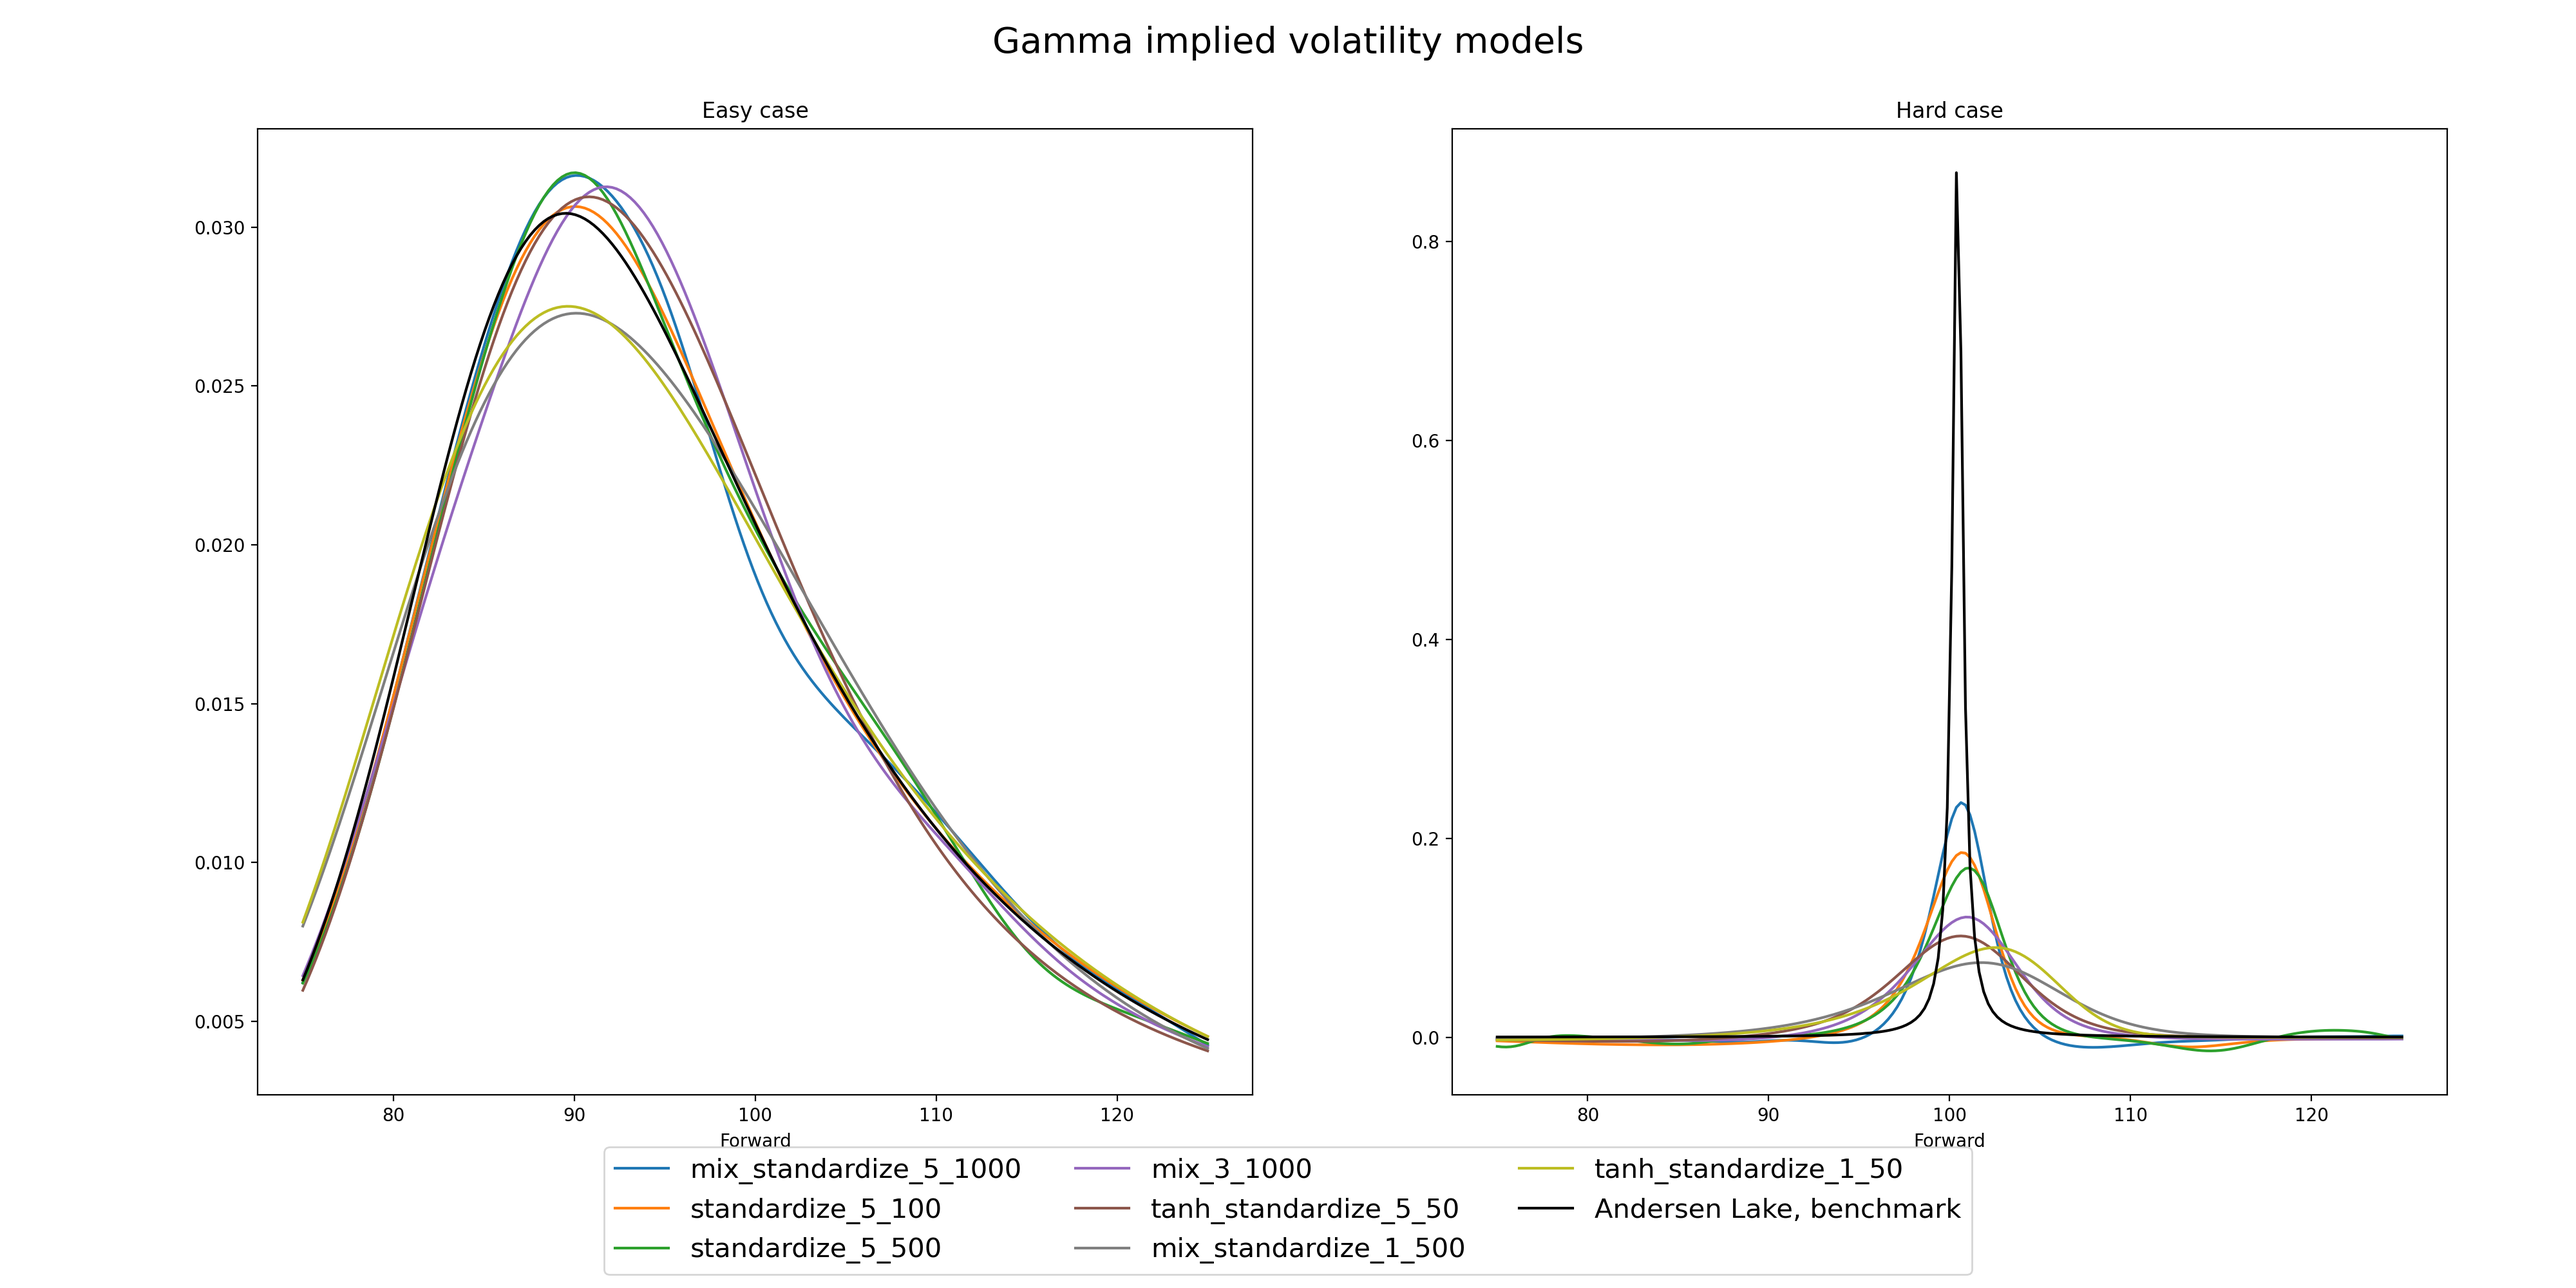
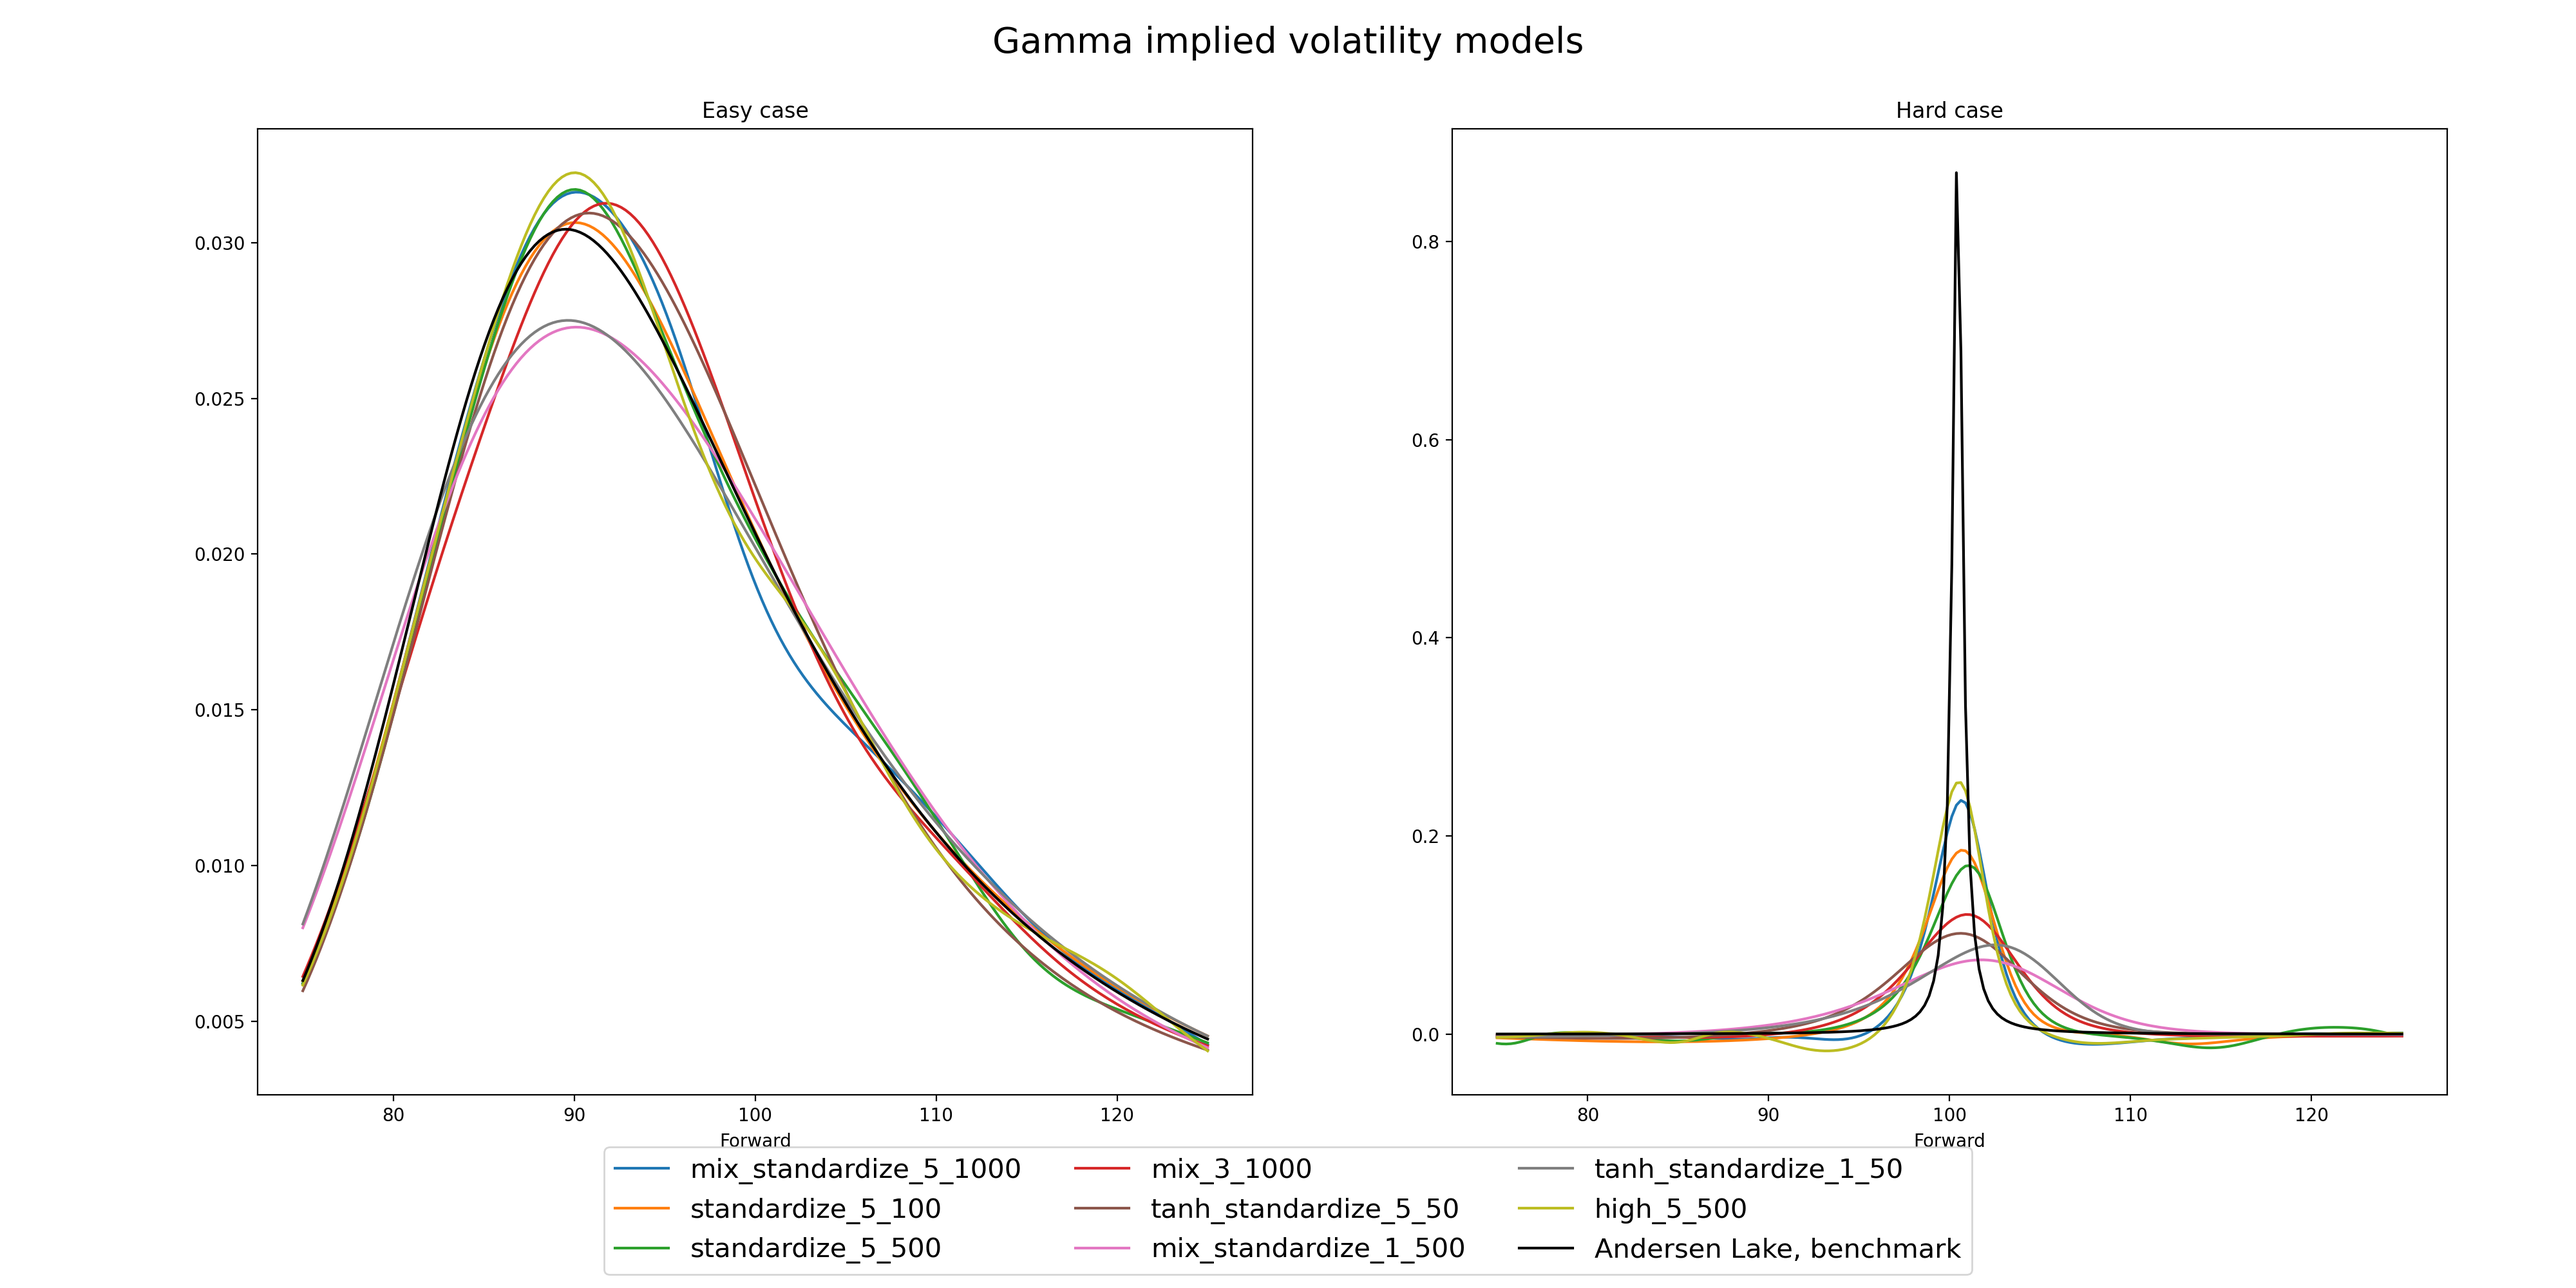
random

diff --git a/Thesis/Heston/LossHistory.py b/Thesis/Heston/LossHistory.py
@@ -26,7 +26,7 @@ if __name__ == "__main__":
 
     train_index_1, test_index_1 = ModelGenerator.load_index(100000)
     model_input_1 = np.loadtxt("Data/100000_input.csv", delimiter = ",")
-    imp_vol_1 = np.loadtxt("Data/100000_imp.csv", delimiter=",")
+    imp_vol_1 = np.loadtxt("Data/sobol_final100000.csv", delimiter=",")
     X_train_1 = model_input_1[train_index_1, :]
     X_test_1 = model_input_1[test_index_1, :]
     Y_train_1 = imp_vol_1[train_index_1, :]
@@ -36,7 +36,7 @@ if __name__ == "__main__":
 
     train_index_3, test_index_3 = ModelGenerator.load_index(300000)
     model_input_3 = np.loadtxt("Data/300000_input.csv", delimiter = ",")
-    imp_vol_3 = np.loadtxt("Data/300000_imp.csv", delimiter=",")
+    imp_vol_3 = np.loadtxt("Data/sobol_final300000.csv", delimiter=",")
     X_train_3 = model_input_3[train_index_3, :]
     X_test_3 = model_input_3[test_index_3, :]
     Y_train_3 = imp_vol_3[train_index_3, :]
@@ -63,7 +63,7 @@ if __name__ == "__main__":
         model_input_3[train_200k2, :], model_input_3[test_200k2, :],
         imp_vol_3[train_200k2, :], imp_vol_3[test_200k2, :]
     ]
-
+    """
     benchmark_loss, benchmark_score = mg.NN_mc_model_1(data_set_1, "loss_history", "benchmark", 5, 500, \
         "normal", "False", "standardize", False, None, True)
 
@@ -78,6 +78,28 @@ if __name__ == "__main__":
 
     benchmark2_loss, benchmark2_score = mg.NN_mc_model_1(data_set_300_200, "loss_history", "benchmark2", 5, 500, \
         "normal", "False", "standardize", False, None, True)
+    """
+
+    model_list = [
+        [data_set_1, "loss_history", "benchmark", 5, 500, "normal", "False", "standardize", False, None, True],
+        [data_set_100000, "loss_history", "low", 5, 500, "normal", "False", "standardize", False, None, True],
+        [data_set_300_100, "loss_history", "low2", 5, 500, "normal", "False", "standardize", False, None, True],
+        [data_set_300000, "loss_history", "high", 5, 500, "normal", "False", "standardize", False, None, True],
+        [data_set_300_200, "loss_history", "benchmark2", 5, 500, "normal", "False", "standardize", False, None, True]
+    ]
+
+    if cpu_count() == 4:
+        cpu_cores = 4
+    else:
+        cpu_cores = int(min(cpu_count()/4, 16))
+
+    pool = Pool(cpu_cores)
+    res = pool.starmap(mg.NN_mc_model_1, model_list, chunksize=1)
+    pool.close()
+
+    res = np.concatenate(res, axis = 1)
+    price_output = res[0]
+    imp_vol_output = res[1]
 
     val_loss = np.array((low2_loss.history["val_loss"][-1], benchmark2_loss.history["val_loss"][-1], high_loss.history["val_loss"][-1]))
     loss = np.array((low2_loss.history["loss"][-1], benchmark2_loss.history["loss"][-1], high_loss.history["loss"][-1]))
@@ -121,6 +143,14 @@ if __name__ == "__main__":
     plt.savefig("val_training_loss_numbers.png")
     plt.close()
 
+    ### Random
+    random_input = np.loadtxt("Data/random_input.csv", delimiter = ",")
+    #imp_vol = np.loadtxt("Data/benchmark_imp.csv", delimiter=",")
+    random_imp_vol = np.loadtxt("Data/random_imp.csv", delimiter=",")
+
+    X_test_random = random_input[test_index, :]
+    Y_test_random = random_imp_vol[test_index, :]
+
     ### Cross checking models
     model_list = [
         "Models5/loss_history/benchmark_5_500.h5",
@@ -135,3 +165,5 @@ if __name__ == "__main__":
     model_list2_mse = mt.model_test_set(model_list, X_test, Y_test)
 
     model_list3_mse = mt.model_test_set(model_list, X_test_1, Y_test_1)
+
+    random_mse = mt.model_test_set(model_list, X_test_random, Y_test_random)

diff --git a/Thesis/Heston/ModelGenerator.py b/Thesis/Heston/ModelGenerator.py
@@ -54,8 +54,7 @@ if __name__ == '__main__':
     train_index, test_index = load_index(200000)
     
     model_input = np.loadtxt("Data/benchmark_input.csv", delimiter = ",")
-    #imp_vol = np.loadtxt("Data/benchmark_imp.csv", delimiter=",")
-    imp_vol = np.loadtxt("Data/sobol_final200000.csv", delimiter=",")
+    imp_vol = np.loadtxt("Data/benchmark_imp.csv", delimiter=",")
     price = np.loadtxt("Data/benchmark_price.csv", delimiter=",")
 
     X_train = model_input[train_index, :]
@@ -79,10 +78,10 @@ if __name__ == '__main__':
     #imp_vol = np.loadtxt("Data/benchmark_imp.csv", delimiter=",")
     random_imp_vol = np.loadtxt("Data/random_imp.csv", delimiter=",")
 
-    X_train_random = model_input[train_index, :]
-    X_test_random = model_input[test_index, :]
-    Y_train_random = imp_vol[train_index, :]
-    Y_test_random = imp_vol[test_index, :]
+    X_train_random = random_input[train_index, :]
+    X_test_random = random_input[test_index, :]
+    Y_train_random = random_imp_vol[train_index, :]
+    Y_test_random = random_imp_vol[test_index, :]
 
     data_set_random = [X_train_random, X_test_random, Y_train_random, Y_test_random]
 
@@ -144,8 +143,8 @@ if __name__ == '__main__':
         itertools.repeat("high_data"), layer_neuron_combs[:, 0], layer_neuron_combs[:, 1], \
         itertools.repeat("normal"), itertools.repeat("False"), itertools.repeat("normalize"), itertools.repeat(False)))
 
-    random_data_list = list(zip(itertools.repeat(data_set_random), itertools.repeat("random_data"), \
-        itertools.repeat("random_data"), layer_neuron_combs[:, 0], layer_neuron_combs[:, 1], \
+    random_data_list = list(zip(itertools.repeat(data_set_random), itertools.repeat("random_data2"), \
+        itertools.repeat("random_data2"), layer_neuron_combs[:, 0], layer_neuron_combs[:, 1], \
         itertools.repeat("normal"), itertools.repeat("False"), itertools.repeat("normalize"), itertools.repeat(False)))
 
     grid_sobol_list = list(zip(itertools.repeat(data_set_grid_sobol), itertools.repeat("grid_sobol"), \
@@ -264,7 +263,7 @@ if __name__ == '__main__':
         [data_set_1, "same_param", "same_param", 20, 47, "normal", "False", "standardize", False]
     ]
 
-    server_list = low_data_list + high_data_list + random_data_list
+    server_list = random_data_list
 
     if cpu_count() == 4:
         cpu_cores = 4

diff --git a/Thesis/Heston/MC_al.py b/Thesis/Heston/MC_al.py
@@ -595,6 +595,9 @@ if __name__ == "__main__":
     tanh_standardize_1_50 = "Models5/tanh_standardize/tanh_standardize_1_50.h5"
     tanh_standardize_1_50_dict = model_grads(tanh_standardize_1_50, input_good_easy, input_good_hard, some_option)
 
+    high_5_500 = "Models5/loss_history/high_5_500.h5"
+    high_5_500_dict = model_grads(high_5_500, input_good_easy, input_good_hard, some_option)
+
     prediction_data = {
         "mix_standardize_5_1000" : [mix_standardize_5_1000_dict["pred"][0], mix_standardize_5_1000_dict["pred"][1]],
         "standardize_5_100" : [standardize_5_100_dict["pred"][0], standardize_5_100_dict["pred"][1]],
@@ -603,6 +606,7 @@ if __name__ == "__main__":
         "tanh_standardize_5_50" : [tanh_standardize_5_50_dict["pred"][0], tanh_standardize_5_50_dict["pred"][1]],
         "mix_standardize_1_500" : [mix_standardize_1_500_dict["pred"][0], mix_standardize_1_500_dict["pred"][1]],
         "tanh_standardize_1_50" : [tanh_standardize_1_50_dict["pred"][0], tanh_standardize_1_50_dict["pred"][1]],
+        "high_5_500" : [high_5_500_dict["pred"][0], high_5_500_dict["pred"][1]],
         "Andersen Lake, benchmark" : [price_easy_al, price_hard_al]
     }
 
@@ -614,6 +618,7 @@ if __name__ == "__main__":
         "tanh_standardize_5_50" : [tanh_standardize_5_50_dict["delta"][0], tanh_standardize_5_50_dict["delta"][1]],
         "mix_standardize_1_500" : [mix_standardize_1_500_dict["delta"][0], mix_standardize_1_500_dict["delta"][1]],
         "tanh_standardize_1_50" : [tanh_standardize_1_50_dict["delta"][0], tanh_standardize_1_50_dict["delta"][1]],
+        "high_5_500" : [high_5_500_dict["delta"][0], high_5_500_dict["delta"][1]],
         "Andersen Lake, benchmark" : [delta_easy_al, delta_hard_al]
     }
 
@@ -625,6 +630,7 @@ if __name__ == "__main__":
         "tanh_standardize_5_50" : [tanh_standardize_5_50_dict["gamma"][0], tanh_standardize_5_50_dict["gamma"][1]],
         "mix_standardize_1_500" : [mix_standardize_1_500_dict["gamma"][0], mix_standardize_1_500_dict["gamma"][1]],
         "tanh_standardize_1_50" : [tanh_standardize_1_50_dict["gamma"][0], tanh_standardize_1_50_dict["gamma"][1]],
+        "high_5_500" : [high_5_500_dict["gamma"][0], high_5_500_dict["gamma"][1]],
         "Andersen Lake, benchmark" : [gamma_easy_al, gamma_hard_al]
     }
 
